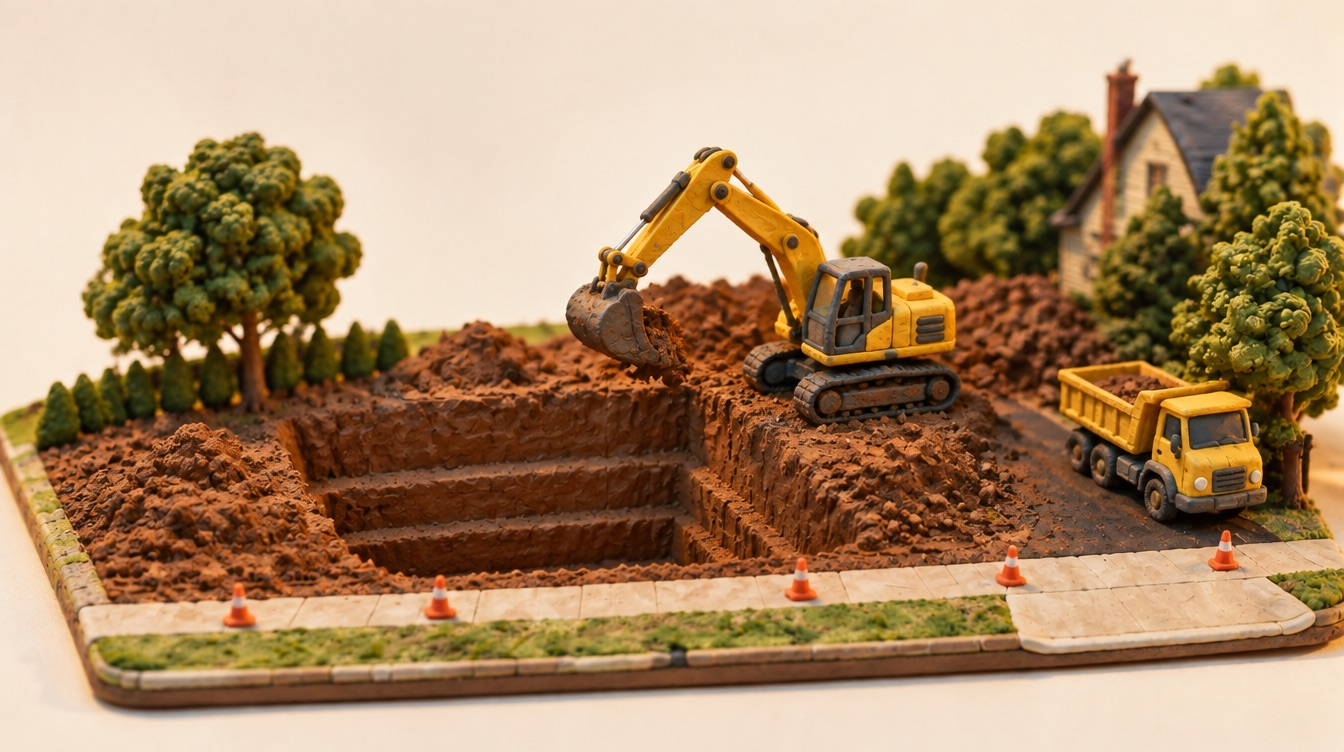
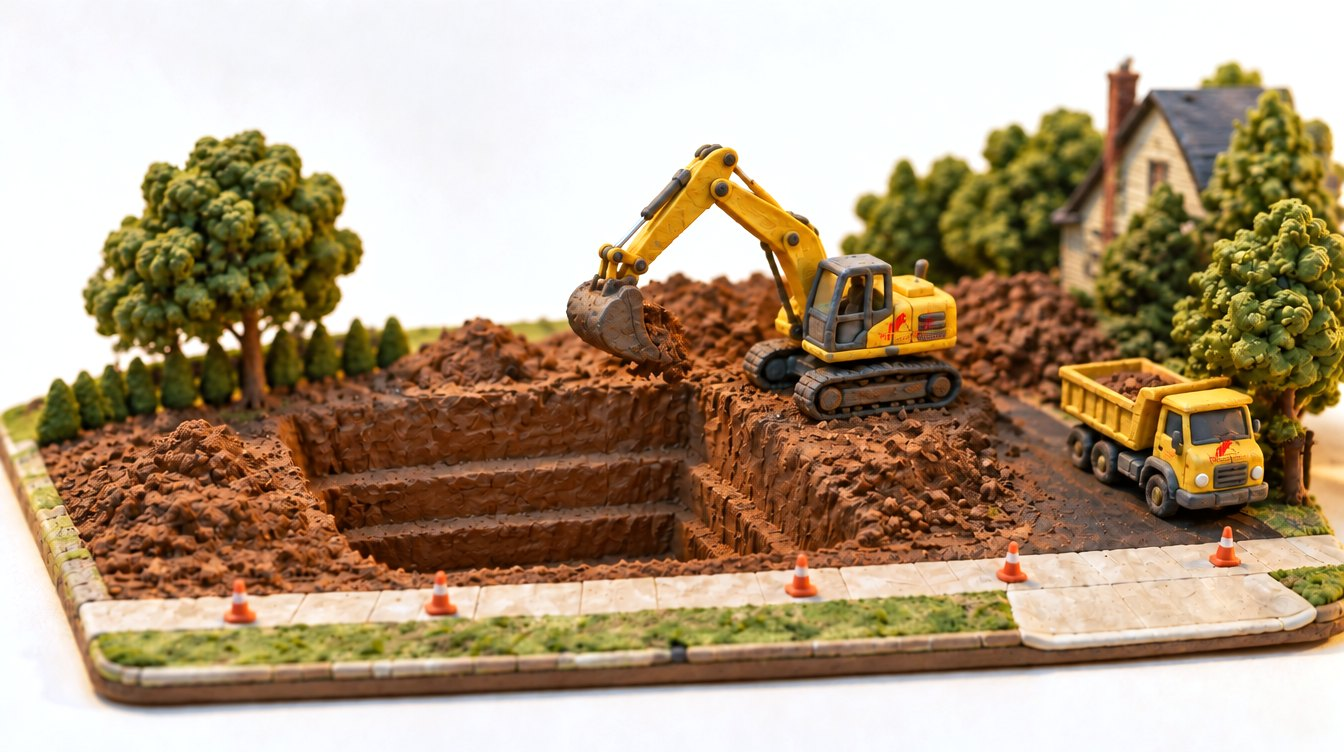
How We Build: the diorama sits on the page, with life in it
The clay stages are white-balanced so multiply blending melts the
studio backdrop into the paper: no card, no edges, the model sits
directly on the site. Trucks wear PSI decals, and the finished house
now has clay kids playing in the yard, the owners with keys on the
steps, and a neighbor walking a dog. The completion meter is gone;
in its place a stage counter beside the title and a Stage N eyebrow
with a hairline. Mobile centers the stack and loses the dead space.

diff --git a/index.html b/index.html
@@ -44,7 +44,7 @@
       href="https://fonts.googleapis.com/css2?family=Archivo:wght@600;700;800&family=Inter:wght@400;500;600;700&display=swap"
       rel="stylesheet"
     />
-    <link rel="stylesheet" href="css/site.css?v=clay1" />
+    <link rel="stylesheet" href="css/site.css?v=clay2" />
     <link rel="stylesheet" href="css/upgrade.css?v=up1" />
     <script type="application/ld+json">
       {
@@ -494,14 +494,19 @@
         <div class="ps-stage">
           <div class="ps-inner">
             <div class="ps-copy">
-              <h2 class="section__title">How We Build</h2>
+              <div class="ps-titlerow">
+                <h2 class="section__title">How We Build</h2>
+                <span class="ps-count" id="psCount" aria-hidden="true"
+                  >1 / 7</span
+                >
+              </div>
               <p class="ps-sub">
                 Every project runs the same way, from empty lot to keys. Scroll
                 to build one.
               </p>
               <ol class="ps-steps" id="psSteps">
                 <li class="ps-step" data-step="0">
-                  <p class="ps-step__n">1</p>
+                  <p class="ps-step__n">Stage 1</p>
                   <h3>Plan &amp; Design</h3>
                   <p class="ps-step__d">
                     Drawings, engineering, and a budget settled before anyone
@@ -509,7 +514,7 @@
                   </p>
                 </li>
                 <li class="ps-step" data-step="1">
-                  <p class="ps-step__n">2</p>
+                  <p class="ps-step__n">Stage 2</p>
                   <h3>Site Preparation</h3>
                   <p class="ps-step__d">
                     Lot cleared, elevations set, and the excavation dug to the
@@ -517,7 +522,7 @@
                   </p>
                 </li>
                 <li class="ps-step" data-step="2">
-                  <p class="ps-step__n">3</p>
+                  <p class="ps-step__n">Stage 3</p>
                   <h3>Foundation</h3>
                   <p class="ps-step__d">
                     Footings poured below frost line, foundation walls up square
@@ -525,14 +530,14 @@
                   </p>
                 </li>
                 <li class="ps-step" data-step="3">
-                  <p class="ps-step__n">4</p>
+                  <p class="ps-step__n">Stage 4</p>
                   <h3>Framing</h3>
                   <p class="ps-step__d">
                     Floors, walls, and roof structure go up a storey at a time.
                   </p>
                 </li>
                 <li class="ps-step" data-step="4">
-                  <p class="ps-step__n">5</p>
+                  <p class="ps-step__n">Stage 5</p>
                   <h3>Exterior &amp; Systems</h3>
                   <p class="ps-step__d">
                     Roofing, siding, windows and doors close the building in,
@@ -540,14 +545,14 @@
                   </p>
                 </li>
                 <li class="ps-step" data-step="5">
-                  <p class="ps-step__n">6</p>
+                  <p class="ps-step__n">Stage 6</p>
                   <h3>Interior &amp; Finishes</h3>
                   <p class="ps-step__d">
                     Insulated, boarded, then the finish work you actually touch.
                   </p>
                 </li>
                 <li class="ps-step" data-step="6">
-                  <p class="ps-step__n">7</p>
+                  <p class="ps-step__n">Stage 7</p>
                   <h3>Final Walkthrough</h3>
                   <p class="ps-step__d">
                     Punch list closed, keys handed over, and our number still
@@ -666,12 +671,6 @@
                   data-f="6"
                   loading="lazy"
                 />
-                <figcaption class="ps-meter" aria-hidden="true">
-                  <span class="ps-meter__label" id="psPhase"
-                    >Site &middot; Ready</span
-                  >
-                  <span class="ps-meter__pct" id="psPct">1% complete</span>
-                </figcaption>
               </figure>
             </div>
           </div>
@@ -1070,7 +1069,7 @@
       integrity="sha256-20nQCchB9co0qIjJZRGuk2/Z9VM+kNiyxNV1lvTlZBo="
       crossorigin=""
     ></script>
-    <script src="js/main.js?v=clay1" defer></script>
+    <script src="js/main.js?v=clay2" defer></script>
     <script src="js/process.js?v=c8015468" defer></script>
     <script src="js/transform.js?v=up1" defer></script>
     <script src="js/upgrade.js?v=up1" defer></script>
@@ -1146,6 +1145,6 @@
         ]
       }
     </script>
-    <script src="js/support.js?v=clay1" defer></script>
+    <script src="js/support.js?v=clay2" defer></script>
   </body>
 </html>

diff --git a/css/site.css b/css/site.css
@@ -2009,6 +2009,27 @@ section[id],
   margin-bottom: 10px;
 }
 
+.ps-titlerow {
+  display: flex;
+  align-items: baseline;
+  justify-content: space-between;
+  gap: 16px;
+  margin-bottom: 14px;
+}
+
+.ps-titlerow .section__title {
+  margin-bottom: 0;
+}
+
+.ps-count {
+  font-family: var(--font-display);
+  font-size: 15px;
+  font-weight: 700;
+  color: var(--muted);
+  font-variant-numeric: tabular-nums;
+  white-space: nowrap;
+}
+
 .ps-sub {
   margin: 0 0 30px;
   max-width: 34ch;
@@ -2048,12 +2069,23 @@ section[id],
 }
 
 .ps-step__n {
+  display: flex;
+  align-items: center;
+  gap: 14px;
   margin: 0 0 10px;
-  font-size: 14px;
+  font-size: 12px;
   font-weight: 700;
   letter-spacing: 0.24em;
+  text-transform: uppercase;
   color: var(--accent);
   font-variant-numeric: tabular-nums;
+}
+
+.ps-step__n::after {
+  content: "";
+  flex: 1 1 auto;
+  height: 1px;
+  background: var(--hairline);
 }
 
 .ps-step h3 {
@@ -2126,10 +2158,12 @@ section[id],
   width: 100%;
   aspect-ratio: 1344 / 752;
   max-height: 76vh;
-  border-radius: 14px;
-  overflow: hidden;
-  background: #f3ede2;
-  box-shadow: 0 30px 70px -45px rgba(16, 18, 20, 0.55);
+}
+
+/* No card and no cut-out: multiply melts the studio backdrop into
+   the page paper, so the model sits directly on the site. */
+.ps-frame {
+  mix-blend-mode: multiply;
 }
 
 .ps-frame {
@@ -2144,36 +2178,6 @@ section[id],
 /* before the engine runs (or without JS) the first stage shows */
 .ps-frame:first-child {
   opacity: 1;
-}
-
-.ps-meter {
-  position: absolute;
-  right: 14px;
-  bottom: 12px;
-  z-index: 3;
-  display: flex;
-  flex-direction: column;
-  align-items: flex-end;
-  gap: 1px;
-  padding: 8px 14px;
-  border-radius: 8px;
-  background: rgba(16, 18, 20, 0.62);
-  backdrop-filter: blur(4px);
-  color: #fff;
-  text-align: right;
-}
-
-.ps-meter__label {
-  font-size: 11px;
-  letter-spacing: 0.14em;
-  text-transform: uppercase;
-  color: rgba(255, 255, 255, 0.65);
-}
-
-.ps-meter__pct {
-  font-family: var(--font-display);
-  font-size: 17px;
-  font-weight: 700;
 }
 
 /* ---------------- mobile: scene on top, copy beneath ---------------- */
@@ -2205,8 +2209,16 @@ section[id],
     font-size: clamp(24px, 6vw, 32px);
     margin-bottom: 14px;
   }
+  .ps-inner {
+    align-content: center;
+  }
+  .ps-stage {
+    align-items: center;
+    padding-top: 54px;
+  }
   .ps-steps {
-    min-height: 148px;
+    margin-bottom: 16px;
+    min-height: 132px;
     margin-bottom: 18px;
   }
   .ps-step h3 {

diff --git a/js/process.js b/js/process.js
@@ -15,20 +15,9 @@
   const frames = [...runway.querySelectorAll(".ps-frame")];
   const steps = [...runway.querySelectorAll(".ps-step")];
   const ticks = [...runway.querySelectorAll(".ps-tick-btn")];
-  const pct = document.getElementById("psPct");
-  const phase = document.getElementById("psPhase");
+  const count = document.getElementById("psCount");
   const N = frames.length;
   if (!N) return;
-
-  const PHASES = [
-    "Site · Ready",
-    "Site · Excavation",
-    "Structure · Foundation",
-    "Structure · Framing",
-    "Envelope · Dry-in",
-    "Finish · Landscape",
-    "Complete · Keys",
-  ];
 
   const vpH = () => document.documentElement.clientHeight;
   const reduce = window.matchMedia("(prefers-reduced-motion: reduce)");
@@ -46,11 +35,7 @@
     const active = t > 0.5 ? hi : lo;
     steps.forEach((s, k) => s.classList.toggle("is-on", k === active));
     ticks.forEach((b, k) => b.classList.toggle("is-on", k === active));
-    if (pct) {
-      const p = Math.max(1, Math.round((i / (N - 1)) * 100));
-      pct.textContent = p + "% complete";
-    }
-    if (phase) phase.textContent = PHASES[active] || "";
+    if (count) count.textContent = active + 1 + " / " + N;
   }
 
   if (reduce.matches) {

diff --git a/contact.html b/contact.html
@@ -16,7 +16,7 @@
       href="https://fonts.googleapis.com/css2?family=Archivo:wght@600;700;800&family=Inter:wght@400;500;600;700&display=swap"
       rel="stylesheet"
     />
-    <link rel="stylesheet" href="css/site.css?v=clay1" />
+    <link rel="stylesheet" href="css/site.css?v=clay2" />
   </head>
   <body style="background: var(--paper)">
     <nav class="nav nav--solid" aria-label="Primary">
@@ -147,6 +147,6 @@
 
     <script src="js/quote-data.js?v=a449cf9b"></script>
     <script src="js/quote.js?v=742b7f01" defer></script>
-    <script src="js/support.js?v=clay1" defer></script>
+    <script src="js/support.js?v=clay2" defer></script>
   </body>
 </html>
